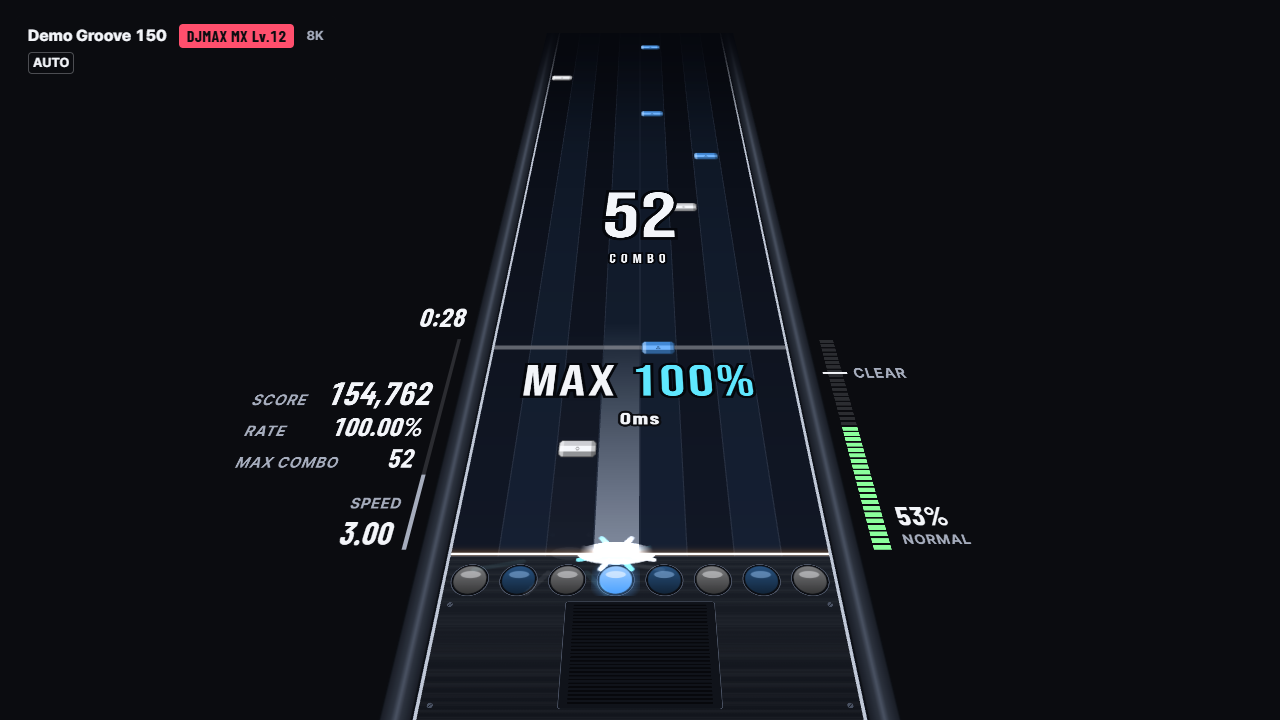
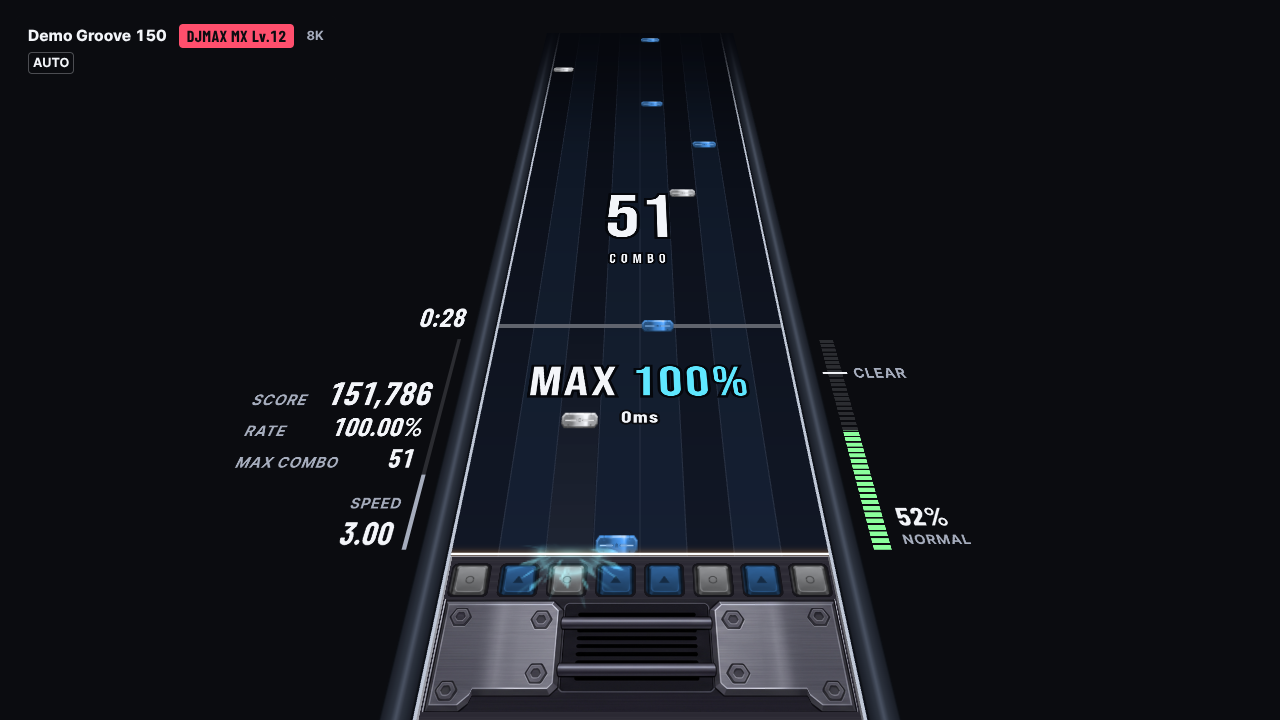
Docs: the mecha set and the gear colour, with screenshots
README: the arcade skin's screenshot with the mecha set picked (메카 챔퍼,
아케이드, 메카 섬광) and a new one, 28-mecha-red, of the gear in red with
its turntable (7K+1S); 기어 색 in the gear tab's rows; a paragraph on the
set (what each part looks like, the four colourways, the code drawing when
the pictures are missing); the arcade gear in the list of gears; the
credits (Gemini, scripts/assets/build_styles.py); the test counts (340
unit, 98 e2e). The jewel and concrete screenshots again, their chamfer
notes now drawn from art.

ARCHITECTURE: render/styleArt.ts in the gear, the note shapes and the skin
textures (pictures decoded without colour management, the hit flipbooks
and their anchor, data-art), the gear colour among the parts,
build_styles.py, and a row for the set. TESTING: the manual check of the
set and its colourways. The screenshot spec shoots the arcade skin with the
mecha set and the set in red.

고친 문제:
- 문서와 스크린샷에 메카 세트와 기어 색이 없었다. 부위·기어 색·그림이 없을 때의 동작을 적고 스크린샷을 더했다.

Claude-Session: https://claude.ai/code/session_01BwEeGPydwWxbHMk4SP9G9k

diff --git a/client/e2e/screenshots.spec.ts b/client/e2e/screenshots.spec.ts
@@ -325,7 +325,7 @@ test('play: the flat PLANE camera, with the judge counter and a pacemaker', asyn
   await shot(page, '20-play-plane');
 });
 
-test('play: four of the skins', async ({ page }) => {
+test('play: four of the skins, and the mecha set in a gear colour of its own', async ({ page }) => {
   // also runs on its own (-g "four of the skins"): makes the showcase song when it is missing
   await page.goto('/');
   const songs = (await (await page.request.get('/api/songs')).json()).songs as { title: string }[];
@@ -335,7 +335,7 @@ test('play: four of the skins', async ({ page }) => {
   for (const [skin, keyMode, name, cameraPreset, parts] of [
     ['glass', '7K+1S', '15-skin-crystal', 'SDVX', { note: 'star4', side: 'bar', deck: 'crystal', hit: 'shards' }],
     ['jewel', '6K+FX', '16-skin-jewel', 'SDVX', { note: 'chamfer', side: 'bar', deck: 'jewel', hit: 'shards' }],
-    ['arcade', '8K', '17-skin-arcade', 'FLAT', { note: 'chamfer', side: 'bar', deck: 'arcade', hit: 'star' }],
+    ['arcade', '8K', '17-skin-arcade', 'FLAT', { note: 'chamfer', side: 'bar', deck: 'arcade', hit: 'mecha' }],
     ['pop', '4K', '18-skin-pop', 'SDVX', { note: 'round', side: 'bar', deck: 'candy', hit: 'bubbles' }],
   ] as const) {
     await settings(page, { lastKeyMode: keyMode, skin, cameraPreset, hiSpeed: 3, fever: 'OFF', parts });
@@ -343,6 +343,12 @@ test('play: four of the skins', async ({ page }) => {
     await autoplayFor(page, 14_200);
     await shot(page, name);
   }
+  // the mecha set with its gear in red, the turntable in the scratch lane
+  const mecha = { note: 'chamfer', side: 'bar', deck: 'arcade', deckColour: 'red', hit: 'mecha' };
+  await settings(page, { lastKeyMode: '7K+1S', skin: 'arcade', parts: mecha, cameraPreset: 'SDVX', hiSpeed: 3, fever: 'OFF' });
+  await selectShowcase(page, '7K+1S', 'MAXIMUM');
+  await autoplayFor(page, 14_200);
+  await shot(page, '28-mecha-red');
 });
 
 test('play: the gears for any skin, each with notes, side notes and a hit effect picked apart from the skin', async ({ page }) => {
